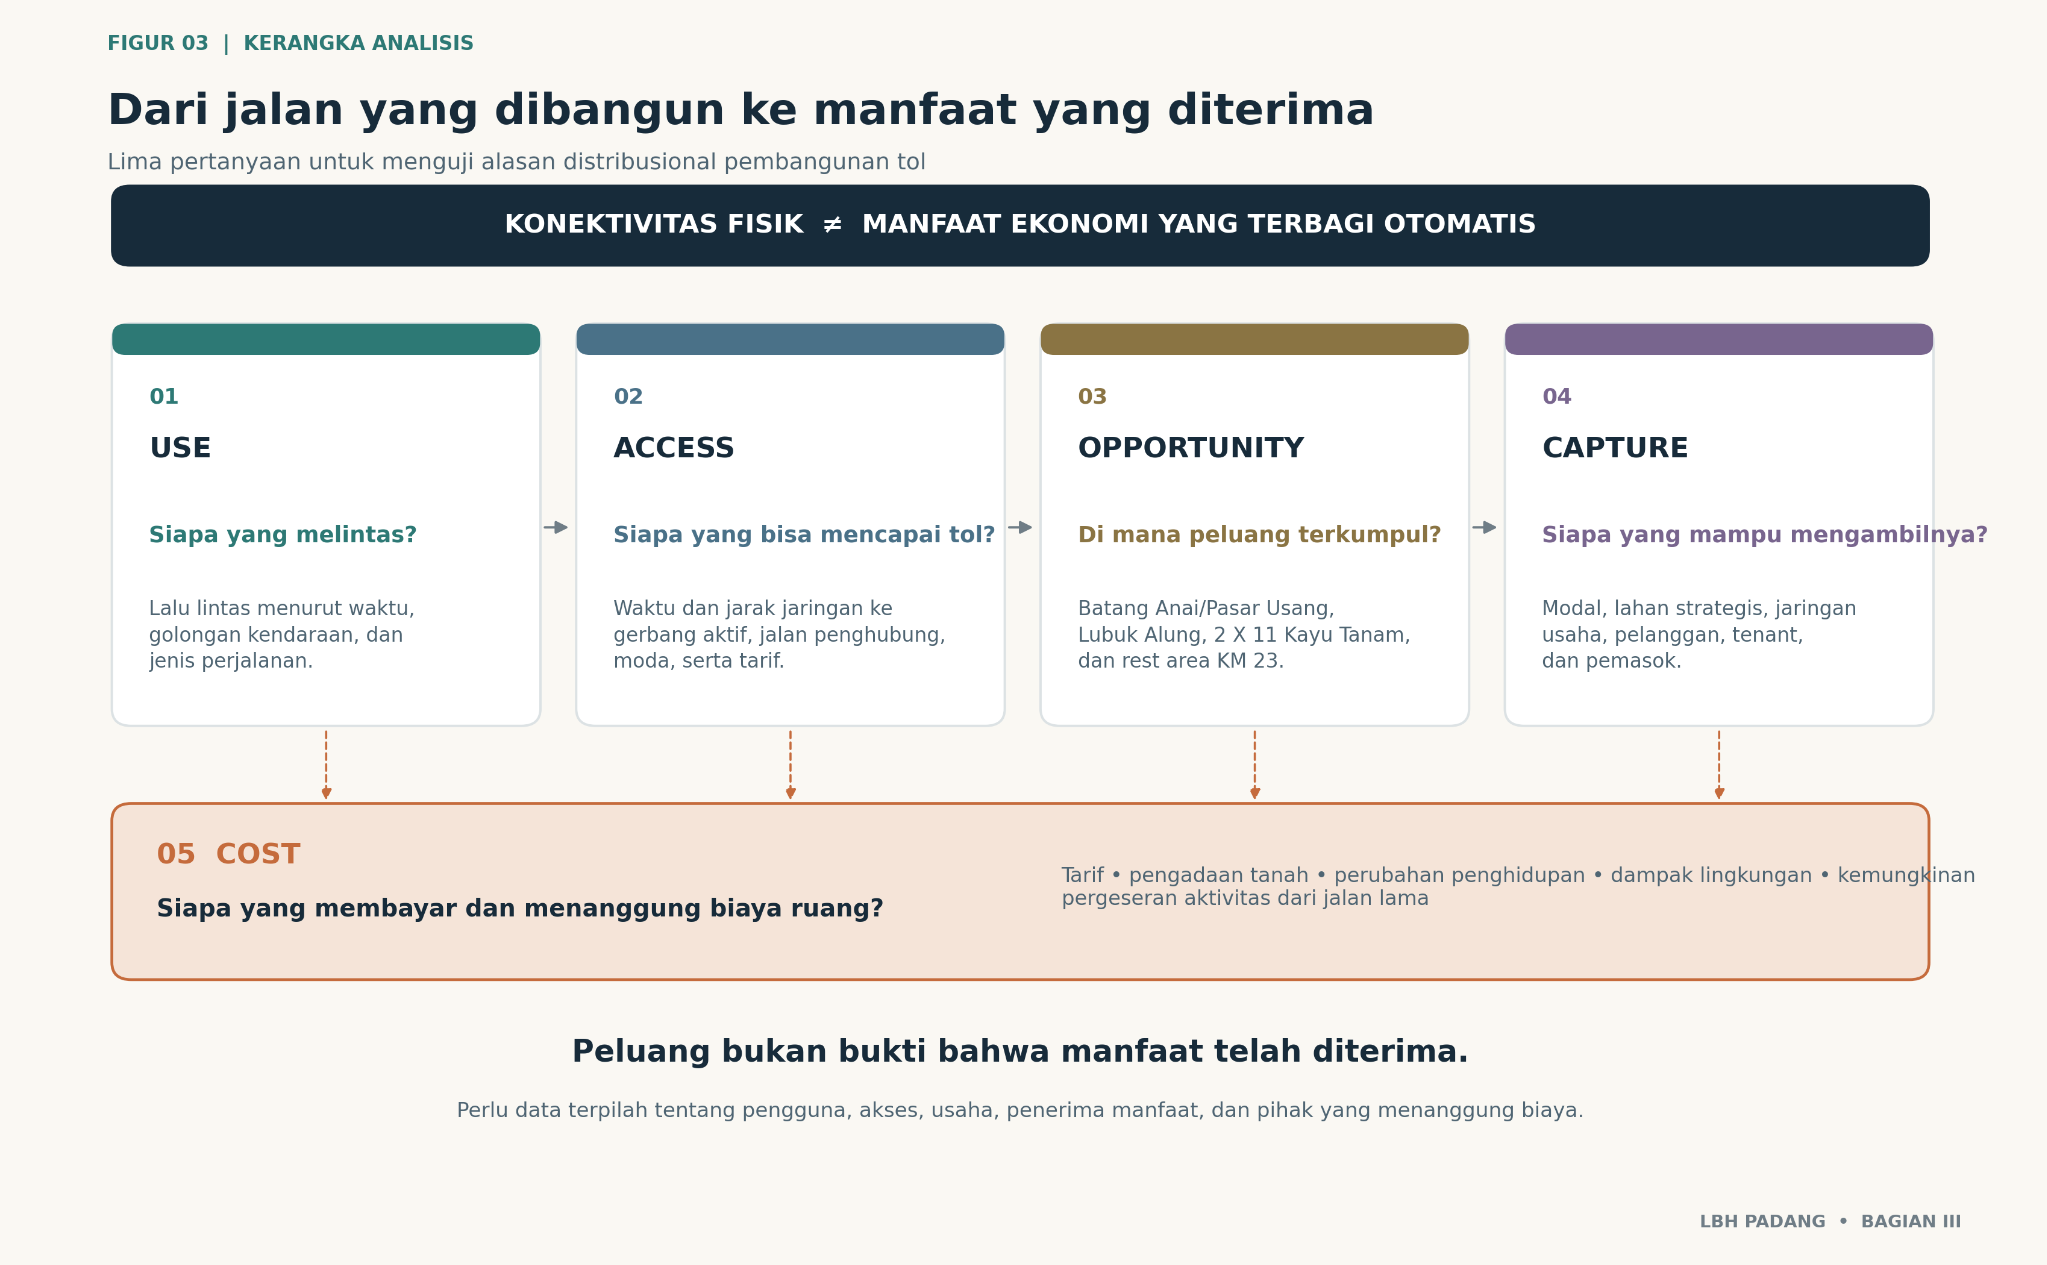
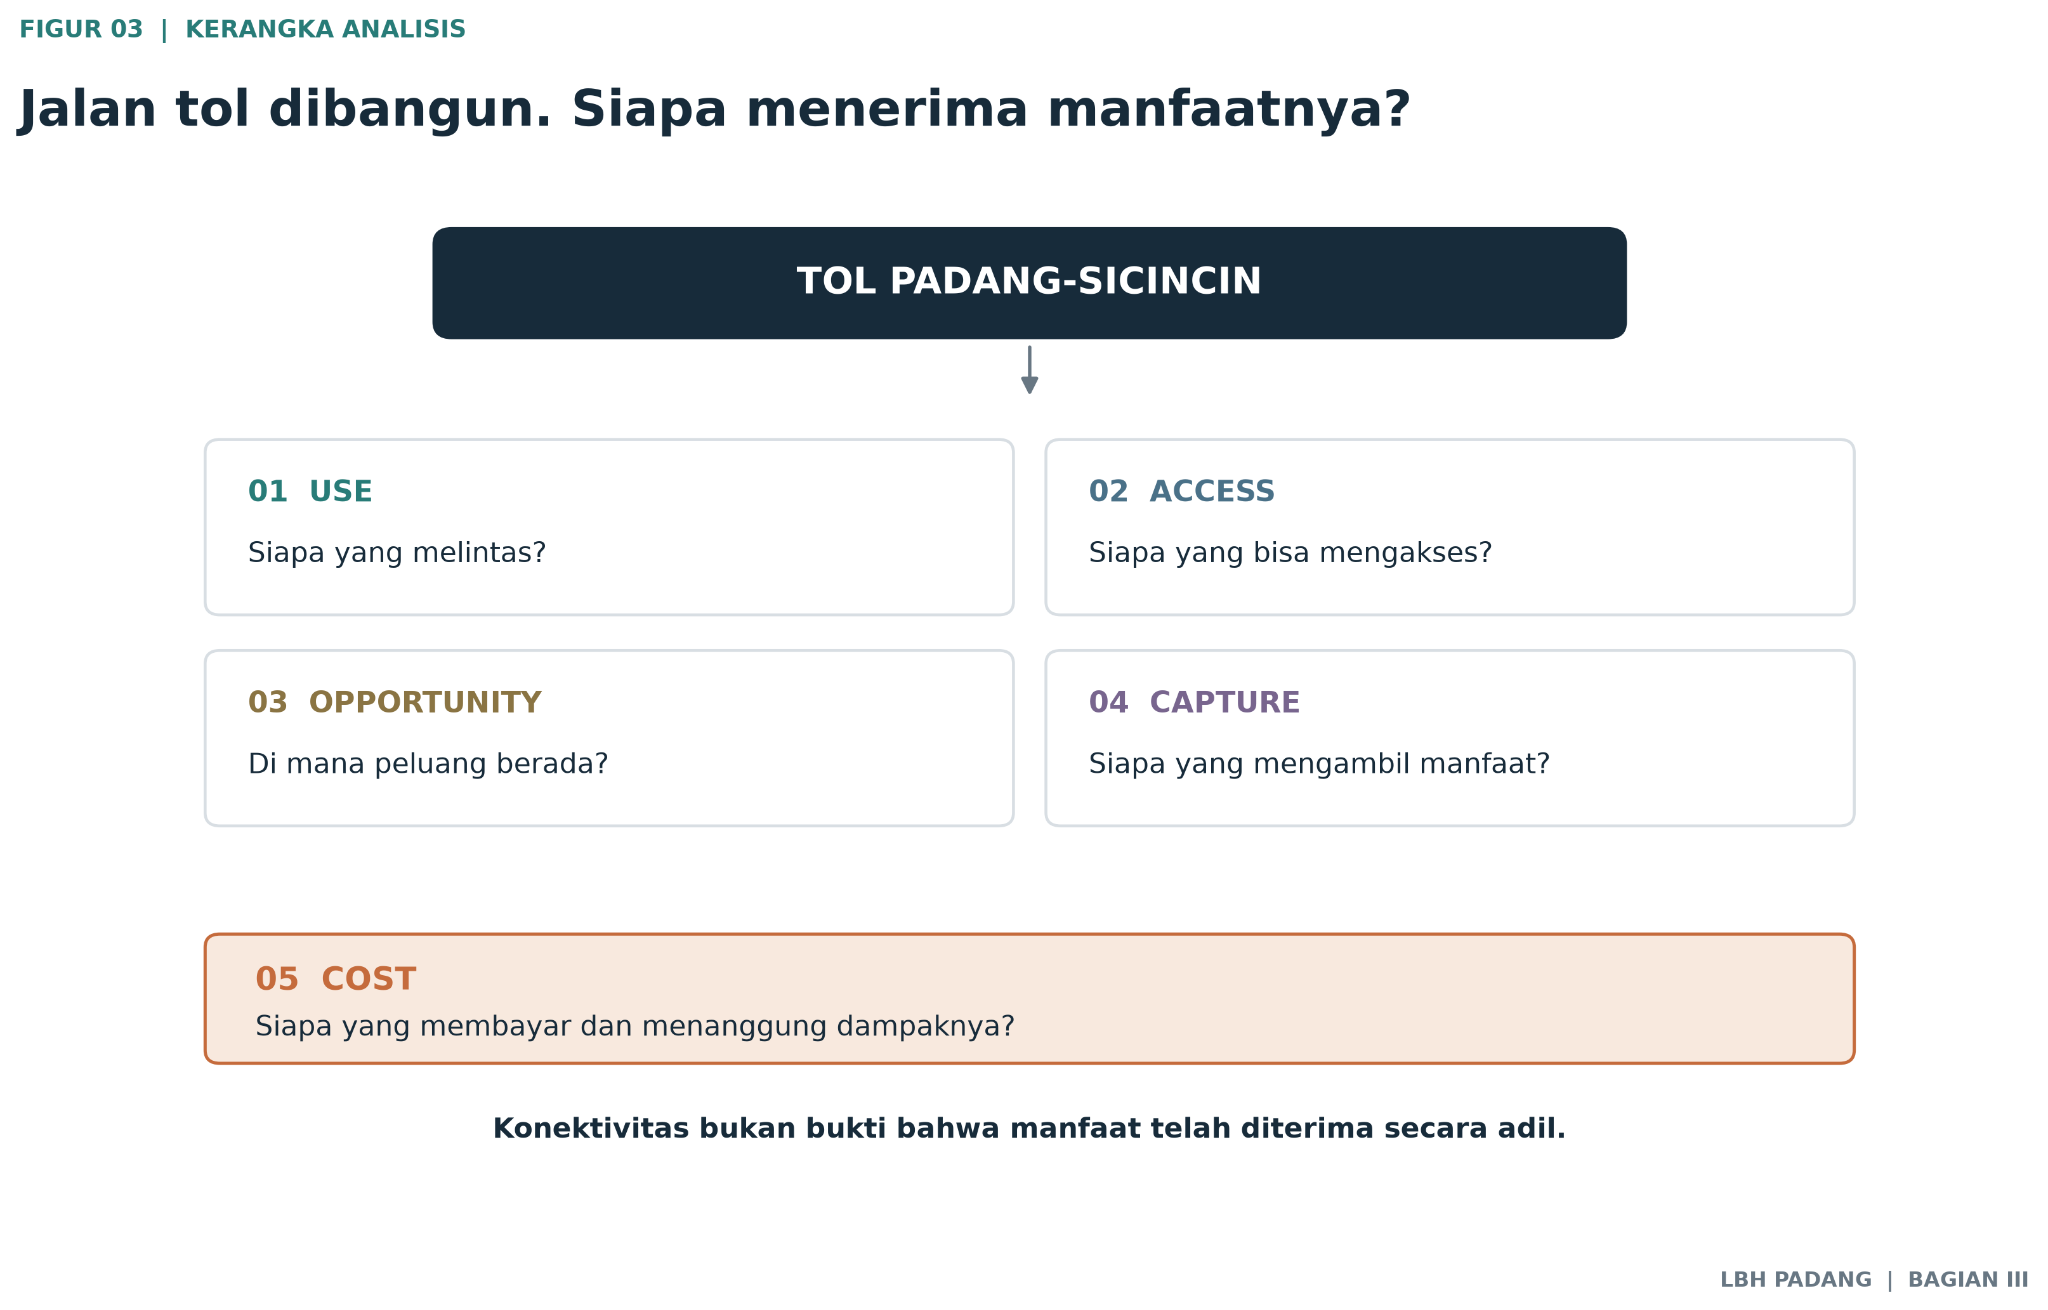
Add files via upload
Fix responsive figures and homepage copy

diff --git a/assets/styles.css b/assets/styles.css
@@ -4,3 +4,17 @@
 @media(max-width:850px){.home-hero{grid-template-columns:1fr;gap:36px;padding-top:60px}.hero-art,.landscape-svg{min-height:340px}.featured-card{grid-template-columns:1fr}.featured-visual{min-height:300px}.featured-copy{min-height:335px}.article-layout{grid-template-columns:1fr;gap:24px}.article-aside{position:static;order:0}.toc-card nav{display:grid;grid-template-columns:repeat(2,minmax(0,1fr));gap:9px 20px}.aside-note{display:none}.article-body{max-width:var(--article-width);margin-inline:auto}.article-cover{margin-bottom:35px}.article-cover img{max-height:none;object-fit:contain}}
 @media(max-width:600px){.wrap{width:calc(100% - 36px)}.header-inner{width:calc(100% - 36px);height:66px}.brand-name{font-size:18px}.nav a{font-size:11px}.home-hero{padding-top:48px;padding-bottom:49px}.hero-copy h1{font-size:48px}.hero-intro{font-size:19px}.hero-art,.landscape-svg{min-height:290px}.featured-section{padding-top:32px;padding-bottom:52px}.section-heading h2{font-size:30px}.featured-visual{min-height:205px}.featured-copy{padding:23px;min-height:0}.featured-copy h3{font-size:29px}.card-meta{margin-top:15px}.card-meta .text-link{margin-left:0}.note-section{padding:48px 24px}.archive-teaser{align-items:flex-start;flex-direction:column;padding-top:45px;padding-bottom:53px}.archive-teaser h2{font-size:28px}.button-link{white-space:normal}.footer-inner{width:calc(100% - 36px)}.footer-bottom{flex-direction:column;gap:3px}.archive-page{padding-top:48px;padding-bottom:65px}.page-intro h1{font-size:46px}.archive-item{grid-template-columns:92px minmax(0,1fr) 20px;gap:14px;padding:21px 0;align-items:start}.archive-thumb img{height:88px}.archive-item h2{font-size:20px}.archive-item-copy .eyebrow{font-size:8px;letter-spacing:.08em}.archive-subtitle{font-size:12px}.archive-item-copy>p:not(.eyebrow):not(.archive-subtitle){display:none}.archive-meta{flex-direction:column;gap:1px}.archive-arrow{font-size:19px}.archive-bottom{align-items:flex-start;flex-direction:column}.article-top{padding-top:25px}.back-link{margin-bottom:30px}.article-top h1{font-size:39px}.article-subtitle{font-size:17px}.article-cover{width:100%;margin-bottom:26px}.article-cover figcaption{padding-inline:18px}.article-layout{padding-bottom:55px}.article-body{font-size:17px;line-height:1.8}.article-body .article-intro{font-size:18px}.article-body h2{font-size:23px;margin-top:2em}.toc-card nav{grid-template-columns:1fr 1fr}.toc-card nav a{font-size:11px}.data-visual{margin-inline:-2px;padding:16px}.visual-header h3{font-size:22px}.visual-number{font-size:8px}.chart-legend{align-items:flex-start}.text-button{margin-left:0;flex-basis:100%;text-align:left;margin-top:5px}.article-actions{align-items:flex-start;flex-direction:column}}
 @media(prefers-reduced-motion:reduce){*,*::before,*::after{scroll-behavior:auto!important;transition:none!important}}
+
+
+/* Responsive content containment: prevent full-resolution figures from overflowing the reading column. */
+img, picture, video, canvas { max-width: 100%; }
+.article-layout, .article-body, .article-aside { min-width: 0; }
+.article-figure { display: block; width: 100%; max-width: 100%; min-width: 0; margin-left: 0; margin-right: 0; }
+.article-body .article-figure img, .article-cover img { display: block; width: 100%; max-width: 100%; height: auto; }
+@media (min-width: 851px) and (max-width: 1050px) {
+  .article-layout { grid-template-columns: minmax(0, 1fr); gap: 24px; }
+  .article-aside { position: static; order: 0; }
+  .toc-card nav { display: grid; grid-template-columns: repeat(2, minmax(0, 1fr)); gap: 9px 20px; }
+  .aside-note { display: none; }
+  .article-body { width: 100%; max-width: var(--article-width); margin-inline: auto; }
+}

diff --git a/tulisan/kalau-tol-membawa-kemajuan.html b/tulisan/kalau-tol-membawa-kemajuan.html
@@ -79,7 +79,7 @@
       <p>Kenaikan nilai kawasan terbangun bukan berarti kita sudah mengetahui secara pasti berapa luas bangunan yang bertambah. Begitu juga dengan cahaya malam. Tempat yang semakin terang belum tentu berarti pendapatan warganya meningkat atau usaha di sana semakin menguntungkan. Ada hal lain yang juga penting, data ini hanya sampai 2024, sedangkan Tol Padang–Sicincin baru mulai beroperasi pada Mei 2025. Karena itu, kita tidak bisa mengatakan bahwa perubahan tersebut terjadi akibat pembangunan tol. Data ini hanya memberi gambaran bahwa perubahan di Sumatera Barat sudah berlangsung sebelum tol beroperasi.</p>
       <p>Untuk menjawab <em>Opportunity</em>, penginderaan jauh perlu dipadukan dengan fungsi ruang, pusat kegiatan, fasilitas ekonomi, dan perubahan aktivitas di sekitar akses yang benar-benar beroperasi. Untuk menjawab <em>Capture</em>, kita membutuhkan informasi tentang usaha, pemilik aset, investasi, tenant, sewa, pekerjaan, dan hasil ekonomi. Untuk menjawab <em>Cost</em>, kita perlu menghubungkan peta dengan bidang tanah, rumah tangga terdampak, jenis penghidupan, kompensasi, serta data lingkungan. Dengan kata lain, peta membantu menandai tempat yang layak ditanya lebih jauh, peta tidak menggantikan jawaban dari orang-orang yang hidup di sana.</p>
       <p>Lima blok data ini saling bergantung. Data <em>Use</em> memberi tahu siapa dan seberapa banyak yang melintas. <em>Access</em> menguji siapa yang bisa sampai ke jalur itu secara praktis. <em>Opportunity</em> menunjukkan di mana fungsi ekonomi dan kemungkinan pertumbuhan terkumpul. <em>Capture</em> menguji siapa yang mempunyai sumber daya untuk mengambil manfaat. <em>Cost</em> menanyakan siapa yang membayar dan menyediakan ruang, serta siapa yang menanggung perubahan yang menyertainya. Kalau satu blok hilang, cerita kemajuan mudah menjadi timpang.</p>
-      <figure class="article-figure"><img src="/assets/fig03-kerangka-analisis.png" alt="Figur 03. Kerangka analisis lima pertanyaan: Use, Access, Opportunity, Capture, dan Cost." width="2047" height="1265" loading="lazy" decoding="async"><figcaption>Kerangka Analisis Distribusional Tol Padang–Sicincin</figcaption></figure>
+      <figure class="article-figure"><img src="/assets/fig03-kerangka-analisis.png" alt="Figur 03. Dari jalan yang dibangun ke manfaat yang diterima: kerangka analisis lima pertanyaan Use, Access, Opportunity, Capture, dan Cost." width="2048" height="1310" loading="lazy" decoding="async"><figcaption>Kerangka Analisis Distribusional Tol Padang–Sicincin</figcaption></figure>
       <h2 id="kemajuan-harus-sampai-kepada-penerimanya">Kemajuan harus sampai kepada penerimanya</h2>
       <p>Saya tidak ingin sok tahu menyimpulkan bahwa sopir bus dalam cerita tadi tidak memahami ekonomi. Bisa jadi operator memiliki pertimbangan biaya yang masuk akal. Bisa jadi penumpang merasa tambahan ongkos sepadan dengan waktu yang dihemat. Bisa juga biaya dialihkan kepada penumpang sementara manfaat operasional lebih banyak dinikmati operator. Kita perlu bertanya dan menguji, bukan menebak.</p>
       <p>Cerita ini dapat mengingatkan kita bahwa penghematan bukan hanya soal ada atau tidak ada. Penghematan juga soal siapa yang menerimanya. Dan pertanyaan itu berlaku pada skala yang lebih besar daripada sebuah bus. Jika pemilik kendaraan dapat menghemat waktu, operator menerima tarif, pemilik usaha di simpul akses berpeluang mendapatkan pelanggan baru, dan sebagian rumah tangga menyediakan tanah atau menanggung perubahan pada jalan lama, maka proyek yang sama menghasilkan pengalaman yang berbeda-beda.</p>

diff --git a/index.html b/index.html
@@ -22,8 +22,8 @@
   <main id="main">
     <section class="home-hero wrap">
       <div class="hero-copy">
-        <p class="eyebrow"><span class="eyebrow-dot"></span> CATATAN SEORANG ESAIS</p>
-        <h1>Menulis untuk<br><em>memahami dunia.</em></h1>
+        <p class="eyebrow"><span class="eyebrow-dot"></span> Essay Habieb</p>
+        <h1>Menulis untuk<br><em>memahami diri sendiri.</em></h1>
         <p class="hero-intro">Esai, data, dan catatan tentang ruang hidup, pembangunan, kekuasaan, dan kehidupan sehari-hari.</p>
         <p class="hero-byline">Sebuah ruang independen oleh <strong>Habieb Aulia Sufi</strong>.</p>
         <a class="text-link hero-link" href="/tulisan/">Jelajahi tulisan <span aria-hidden="true">↗</span></a>
